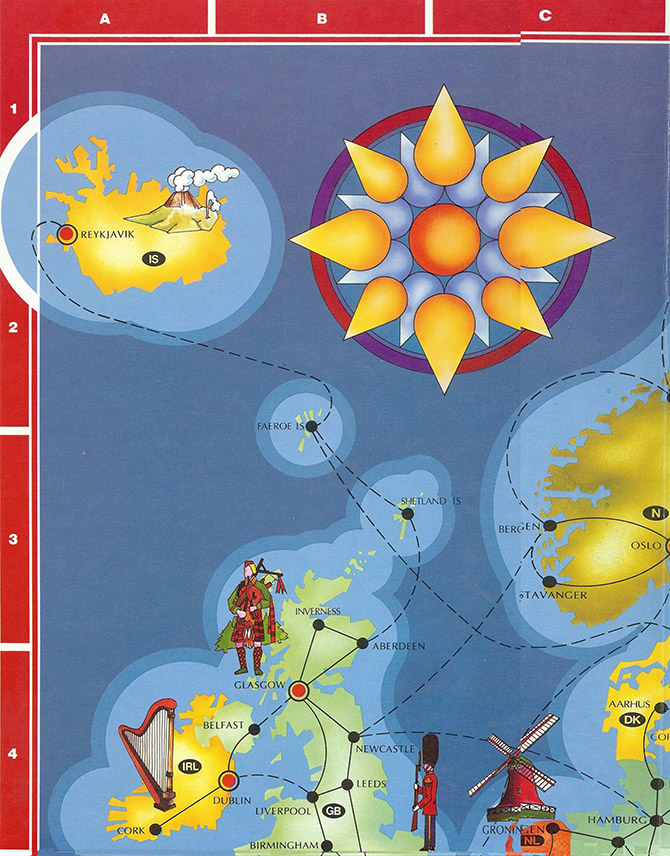
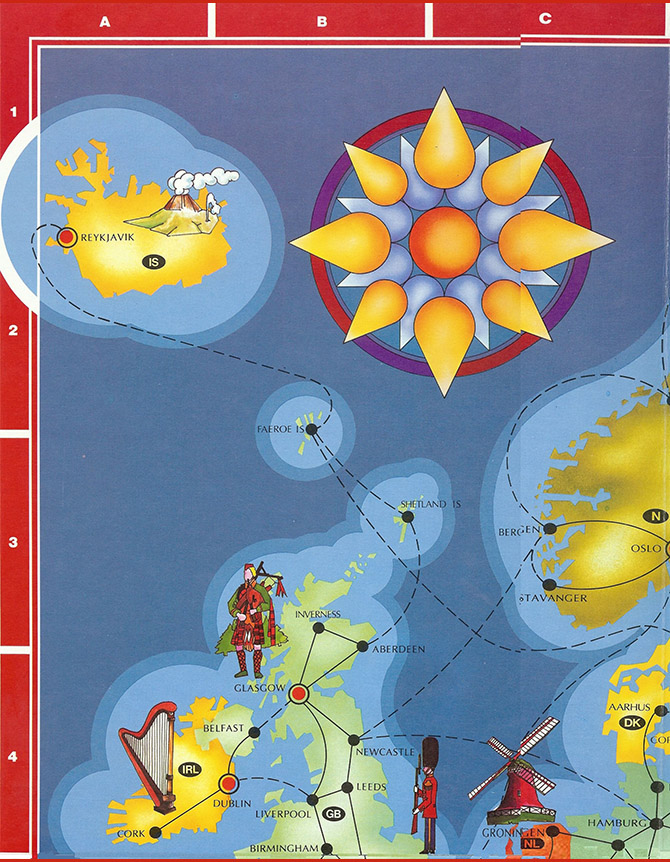
Display background image for splash screen

diff --git a/src/jte/ui/JTEGamePlayUI.java b/src/jte/ui/JTEGamePlayUI.java
@@ -43,7 +43,7 @@ public class JTEGamePlayUI extends BorderPane {
         cardToolbar.setMinWidth(305);
         cardToolbar.setSpacing(10);
         cardToolbar.setPadding(new Insets(15));
-        cardToolbar.setStyle("-fx-background-color:gray");
+        cardToolbar.setStyle("-fx-background-color:#81b5dd");
         this.setLeft(cardToolbar);
     }
 
@@ -51,7 +51,7 @@ public class JTEGamePlayUI extends BorderPane {
         playerSidebar = new VBox();
         playerSidebar.setMinWidth(305);
         playerSidebar.setPadding(new Insets(15));
-        playerSidebar.setStyle("-fx-background-color:gray");
+        playerSidebar.setStyle("-fx-background-color:#81b5dd");
         this.setRight(playerSidebar);
 
         Label currentCity = new Label("No city clicked on yet.");
@@ -70,12 +70,15 @@ public class JTEGamePlayUI extends BorderPane {
     public void initMap() {
         map = new StackPane();
         map.setAlignment(Pos.CENTER_LEFT);
-        map.setPrefWidth(670);
+        map.setMaxWidth(670);
         map1 = new Pane();
-        map1.setPrefWidth(670);
+        //map1.setPrefWidth(670);
         map2 = new Pane();
+        //map2.setPrefWidth(670);
         map3 = new Pane();
+        //map3.setPrefWidth(670);
         map4 = new Pane();
+        //map4.setPrefWidth(670);
 
         ImageView map1Img = new ImageView(new Image("file:images/map1.jpg"));
         ImageView map2Img = new ImageView(new Image("file:images/map2.jpg"));
@@ -87,7 +90,7 @@ public class JTEGamePlayUI extends BorderPane {
         map3.getChildren().add(map3Img);
         map4.getChildren().add(map4Img);
 
-        map.getChildren().addAll(map1);
+        map.getChildren().addAll(map1, map2, map3, map4);
         map1Img.toFront();
         map1.toFront();
 
@@ -110,7 +113,7 @@ public class JTEGamePlayUI extends BorderPane {
                 default:
                     System.out.println("Something went wrong with the city data...");
             }
-            city.relocate(city.getX() - 5, city.getY());
+            city.relocate(city.getX() - 5, city.getY() - 3);
             city.setOnMouseClicked(e -> {
                 ui.getEventHandler().respondToCityClick(city);
             });

diff --git a/src/jte/ui/JTESplashUI.java b/src/jte/ui/JTESplashUI.java
@@ -5,14 +5,16 @@ import javafx.event.EventHandler;
 import javafx.geometry.Insets;
 import javafx.geometry.Pos;
 import javafx.scene.control.Button;
+import javafx.scene.image.Image;
 import javafx.scene.image.ImageView;
 import javafx.scene.layout.BorderPane;
+import javafx.scene.layout.StackPane;
 import javafx.scene.layout.VBox;
 
 /**
  * @author
  */
-public class JTESplashUI extends BorderPane {
+public class JTESplashUI extends StackPane {
     private Button newGameButton;
     private Button loadGameButton;
 
@@ -36,7 +38,9 @@ public class JTESplashUI extends BorderPane {
         menu.setAlignment(Pos.BOTTOM_CENTER);
         menu.setSpacing(25);
 
-        this.setBottom(menu);
+        ImageView splash = new ImageView(new Image("file:images/splash.jpg"));
+
+        this.getChildren().addAll(splash, menu);
     }
 
     public Button getAboutButton() {

diff --git a/src/jte/app/App.java b/src/jte/app/App.java
@@ -22,7 +22,7 @@ public class App extends Application{
 
         JTEUI root = new JTEUI(primaryStage);
 
-        Scene scene = new Scene(root.getMainPane(), 1280, 870);
+        Scene scene = new Scene(root.getMainPane(), 1280, 861);
         primaryStage.setScene(scene);
 
         primaryStage.show();
